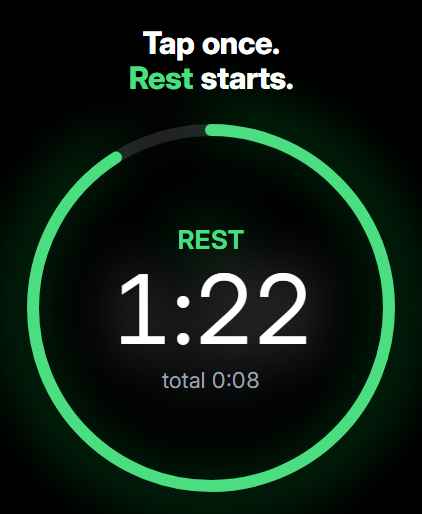
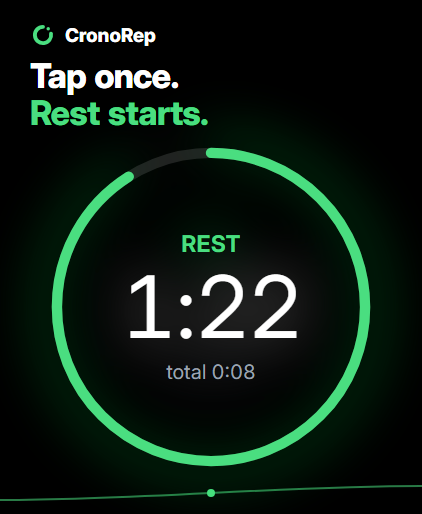
feat: restyle Apple Watch screenshots with label, headline and thread
Small label, two-line headline and a line that runs across the set make
the shots read as one story; shot 1 carries the new Ring C mark.

diff --git a/docs/store/apple-watch/screens.html b/docs/store/apple-watch/screens.html
@@ -29,16 +29,26 @@
 
   /* Caption band */
   .cap {
-    position: absolute; top: 26px; left: 0; right: 0;
-    text-align: center; font-weight: 800; font-size: 31px; line-height: 1.12;
-    letter-spacing: -0.02em;
+    position: absolute; top: 58px; left: 30px; right: 20px;
+    font-weight: 800; font-size: 34px; line-height: 1.08; letter-spacing: -0.025em;
   }
+  .eyebrow {
+    position: absolute; top: 28px; left: 30px; display: flex; align-items: center; gap: 8px;
+    font-size: 13px; font-weight: 700; letter-spacing: 0.14em; color: var(--green);
+  }
+  .eyebrow::before { content: ""; width: 7px; height: 7px; border-radius: 50%; background: currentColor; }
+  .eyebrow.o { color: var(--orange); }
+  .brand { position: absolute; top: 22px; left: 30px; display: flex; align-items: center; gap: 9px;
+    font-size: 19px; font-weight: 800; letter-spacing: -0.01em; }
+  .brand svg { width: 26px; height: 26px; }
+  /* A thin line that runs from one screenshot into the next */
+  .thread { position: absolute; inset: 0; z-index: -2; pointer-events: none; }
   .g { color: var(--green); }
   .o { color: var(--orange); }
 
   /* Watch UI stage, below the caption */
   .stage {
-    position: absolute; left: 50%; top: 122px; width: 372px; height: 372px;
+    position: absolute; left: 50%; top: 146px; width: 322px; height: 322px;
     transform: translateX(-50%);
   }
   .ui { position: absolute; inset: 0; }
@@ -52,19 +62,20 @@
     position: absolute; inset: 0; display: flex; flex-direction: column;
     align-items: center; justify-content: center;
   }
-  .label { font-size: 26px; font-weight: 700; letter-spacing: 0.01em; }
-  .big { font-size: 96px; font-weight: 400; line-height: 1; letter-spacing: -0.03em; margin: 6px 0 10px; }
-  .big.go { font-size: 86px; }
-  .small { font-size: 22px; color: var(--dim); }
+  .label { font-size: 23px; font-weight: 700; letter-spacing: 0.01em; }
+  .big { font-size: 86px; font-weight: 400; line-height: 1; letter-spacing: -0.03em; margin: 6px 0 10px; }
+  .big.go { font-size: 76px; }
+  .small { font-size: 20px; color: var(--dim); }
 
   /* Idle screen */
-  .idle .label { font-size: 28px; }
-  .idle .big { font-size: 80px; margin: 10px 0 14px; }
+  .idle .label { font-size: 25px; }
+  .idle .big { font-size: 74px; margin: 10px 0 14px; }
 
   /* Settings screen */
-  .settings { position: absolute; left: 22px; right: 22px; top: 116px; display: flex; flex-direction: column; align-items: center; gap: 12px; }
+  .settings { position: absolute; left: 30px; right: 30px; top: 150px; display: flex; flex-direction: column; align-items: center; gap: 10px; }
+  .settings .btn { height: 48px; }
   .settings .trial { font-size: 17px; margin: -2px 0; }
-  .settings .hint { font-size: 19px; color: var(--dim); }
+  .settings .hint { font-size: 17px; color: var(--dim); }
   .stepper { display: flex; align-items: center; width: 100%; gap: 10px; }
   .btn {
     height: 54px; border-radius: 27px; background: rgb(255 255 255 / 0.15);
@@ -73,7 +84,7 @@
   }
   .btn.round { width: 74px; font-size: 32px; font-weight: 400; }
   .btn.tint { background: rgb(74 222 128 / 0.32); color: #fff; }
-  .stepper .val { flex: 1; text-align: center; font-size: 52px; letter-spacing: -0.02em; }
+  .stepper .val { flex: 1; text-align: center; font-size: 46px; letter-spacing: -0.02em; }
   .ok { width: 100%; }
   .grid { display: grid; grid-template-columns: 1fr 1fr; gap: 10px; width: 100%; }
 
@@ -100,8 +111,9 @@
 </svg>
 
 <!-- 1. Rest running -->
-<section class="shot" data-s="1">
-  <h1 class="cap">Tap once.<br><span class="g">Rest</span> starts.</h1>
+<section class="shot" data-s="1" data-thread="500 486">
+  <div class="brand"><svg viewBox="0 0 256 256" aria-hidden="true"><path d="M206.79 114.11 A80 80 0 1 1 128 48" fill="none" stroke="rgb(74 222 128)" stroke-width="38" stroke-linecap="round"/><circle cx="179.42" cy="66.72" r="17" fill="rgb(74 222 128)"/></svg>CronoRep</div>
+  <h1 class="cap">Tap once.<br><span class="g">Rest starts.</span></h1>
   <div class="stage" data-ring="green" data-frac="0.91">
     <div class="center">
       <div class="label g">REST</div>
@@ -112,7 +124,8 @@
 </section>
 
 <!-- 2. Last seconds -->
-<section class="shot" data-s="2">
+<section class="shot" data-s="2" data-thread="486 498">
+  <div class="eyebrow">LAST 3 SECONDS</div>
   <h1 class="cap">Soft ticks at<br><span class="g">3, 2, 1.</span></h1>
   <div class="stage" data-ring="green" data-frac="0.034">
     <div class="center">
@@ -124,7 +137,8 @@
 </section>
 
 <!-- 3. Go -->
-<section class="shot" data-s="3">
+<section class="shot" data-s="3" data-thread="498 482">
+  <div class="eyebrow o">REST IS OVER</div>
   <h1 class="cap">Buzz at zero.<br><span class="o">Go lift.</span></h1>
   <div class="stage" data-ring="orange" data-frac="1">
     <div class="center">
@@ -136,8 +150,9 @@
 </section>
 
 <!-- 4. Idle -->
-<section class="shot idle" data-s="4">
-  <h1 class="cap">No menus.<br>Just <span class="g">tap.</span></h1>
+<section class="shot idle" data-s="4" data-thread="482 496">
+  <div class="eyebrow">ONE TAP</div>
+  <h1 class="cap">No menus.<br><span class="g">Just tap.</span></h1>
   <div class="stage" data-ring="none">
     <div class="center">
       <div class="label g">TAP TO START</div>
@@ -148,8 +163,9 @@
 </section>
 
 <!-- 5. Settings -->
-<section class="shot" data-s="5">
-  <h1 class="cap">Hold to set<br>your <span class="g">rest.</span></h1>
+<section class="shot" data-s="5" data-thread="496 500">
+  <div class="eyebrow">YOUR REST TIME</div>
+  <h1 class="cap">Hold to set<br><span class="g">your rest.</span></h1>
   <div class="settings">
     <div class="hint">Rest time</div>
     <div class="stepper">
@@ -197,6 +213,15 @@
     const arc = `<circle cx="${C}" cy="${C}" r="${R}" fill="none" stroke="${colors[kind]}" stroke-width="${SW}"
       stroke-linecap="round" stroke-dasharray="${on} ${L}" transform="rotate(-90 ${C} ${C})"/>`;
     return `<svg class="ring" viewBox="0 0 372 372">${track}${arc}</svg>`;
+  }
+
+  // The thread: enters at the left where the last shot left off, leaves where the next one starts.
+  if (shot.dataset.thread) {
+    const [y0, y1] = shot.dataset.thread.split(' ').map(Number);
+    const mid = (y0 + y1) / 2 + 8;
+    shot.insertAdjacentHTML('afterbegin', `<svg class="thread" viewBox="0 0 422 514">
+      <path d="M0 ${y0} C140 ${y0} 282 ${y1} 422 ${y1}" fill="none" stroke="rgb(74 222 128 / 0.55)" stroke-width="2"/>
+      <circle cx="211" cy="${(y0 + y1) / 2}" r="4" fill="rgb(74 222 128)"/></svg>`);
   }
 
   // Build the UI, then a second aria-hidden copy of it as the glow layer.
